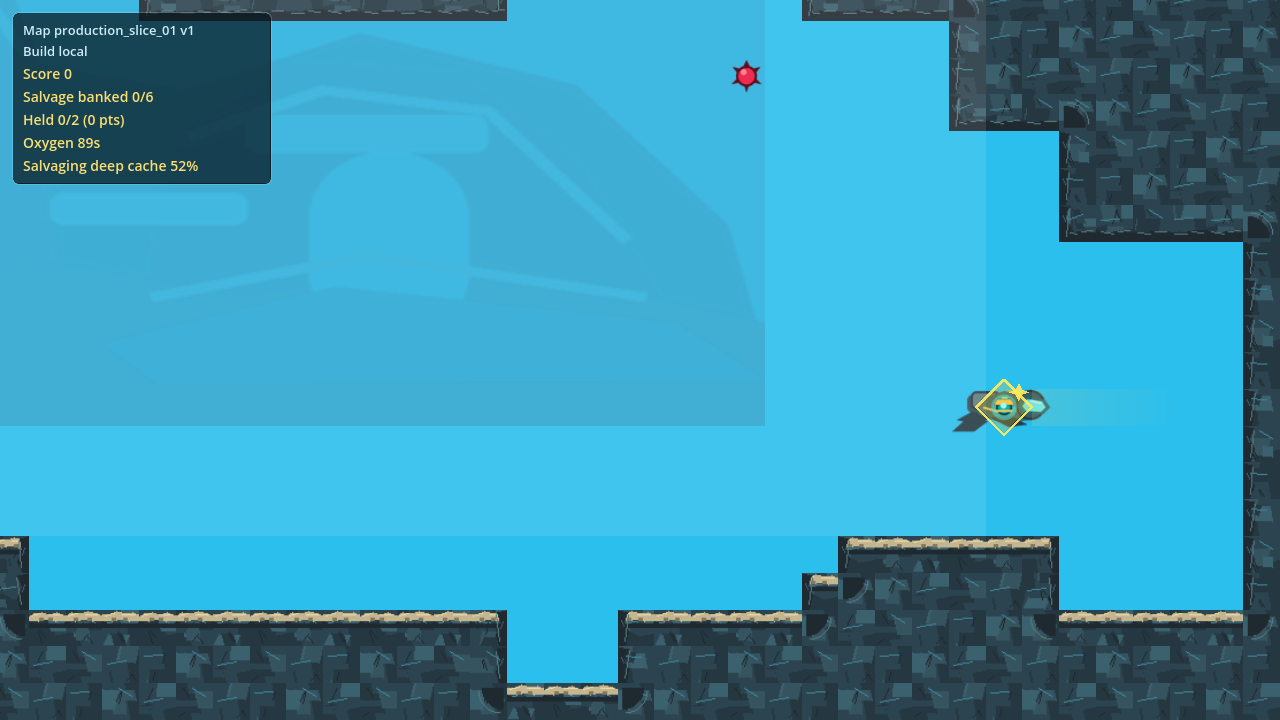
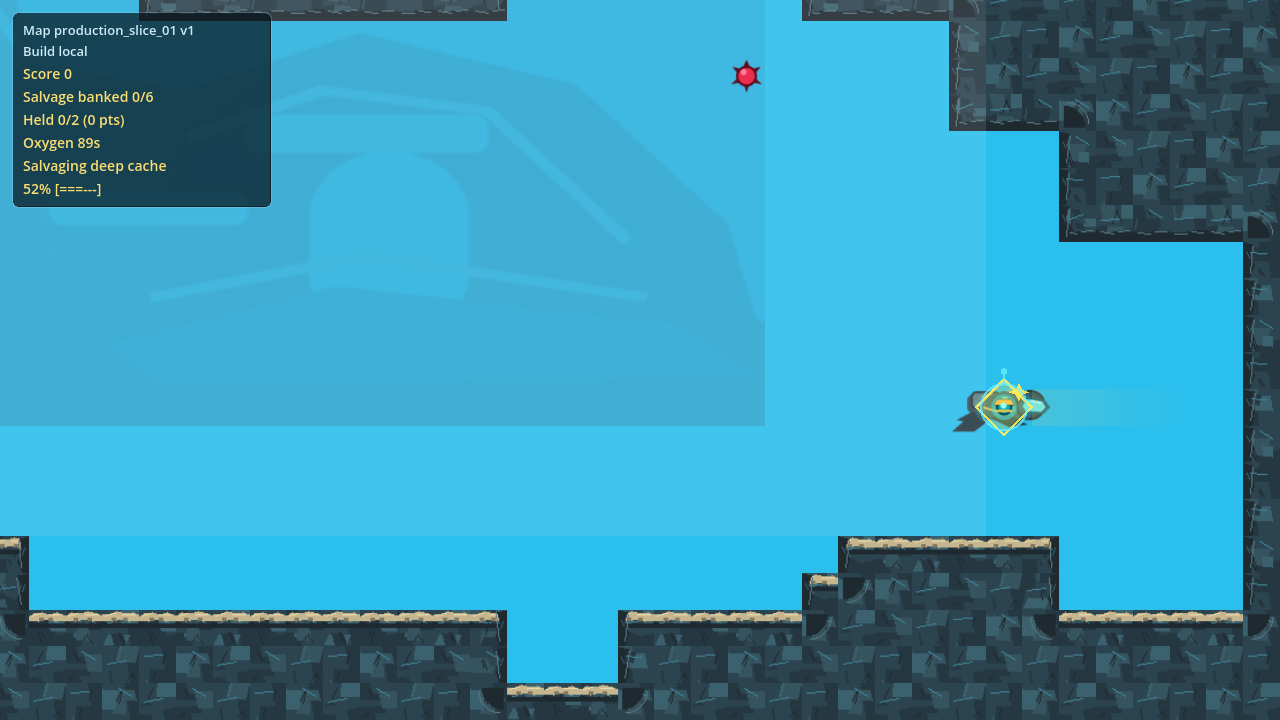
Update timed salvage feedback capture (#166)

Changed region(s): [[0.0, 0.2139, 0.2188, 0.3056]]

diff --git a/docs/current/tooling/captures.md b/docs/current/tooling/captures.md
@@ -47,7 +47,7 @@ Capture the focused timed-salvage interaction view for Controlled Gameplay revie
 & 'C:\Program Files\Godot\Godot_v4.7-stable_win64.exe\Godot_v4.7-stable_win64_console.exe' --path . --quit-after 10 --capture-timed-salvage
 ```
 
-This loads the default production slice, places the player on the authored timed salvage target, advances to a partial `Salvaging deep cache` progress state, keeps map data and accepted baselines unchanged, and writes `visual_captures/timed_salvage/production_slice_01_timed_salvage.png`.
+This loads the default production slice, places the player on the authored timed salvage target, advances to a partial `Salvaging deep cache` progress state, frames the Pass 06 in-world marker and overlay progress bar, keeps map data and accepted baselines unchanged, and writes `visual_captures/timed_salvage/production_slice_01_timed_salvage.png`.
 
 Capture the original rectangular salvage map comparison views:
 
